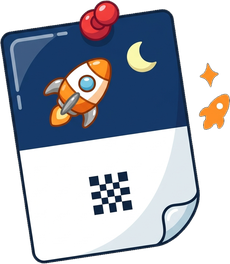
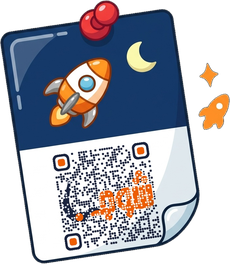
أيقونةُ «منشور المشغل»: رمزُ QR الحقيقيُّ بشعارِ شوجب بدلَ المربّعِ الشطرنجيّ
الرمزُ نفسُه الذي في البطاقة (images/workshop/qr-shoogp.png) بلا إطارِ المادّة، مُداراً بميلِ الورقةِ
المقيس (8.5°) ومدموجاً بالضربِ فلا يغطّي شريطَ الطيّةِ الرماديّ، وأكبرُ (ضلعُه 300 من 1024 بدلَ 135).
ووسمُ ?v= على الصورةِ يختمُه النشرُ فلا تبقى القديمةُ في ذاكرةِ المتصفّحات.

Claude-Session: https://claude.ai/code/session_018zHVSe64aQuiT1TECMdR44

diff --git a/index.html b/index.html
@@ -53,7 +53,7 @@
            على خلفيّةٍ شفّافة. تُخفى في شاشتَي الوحداتِ والنشاطِ كالشعارِ ودليلِ الشراء (css/style.css). -->
       <a class="workshop-btn" href="workshop.html"
         title="صمّمي منشور مشغل شوجب واطبعيه" aria-label="منشور المشغل — صمّميه واطبعيه">
-        <img src="images/workshop/icon-poster.png" alt="" width="230" height="264">
+        <img src="images/workshop/icon-poster.png?v=20261022" alt="" width="230" height="264">
         <span>منشور المشغل</span>
       </a>
       <div class="logo-wrap">
